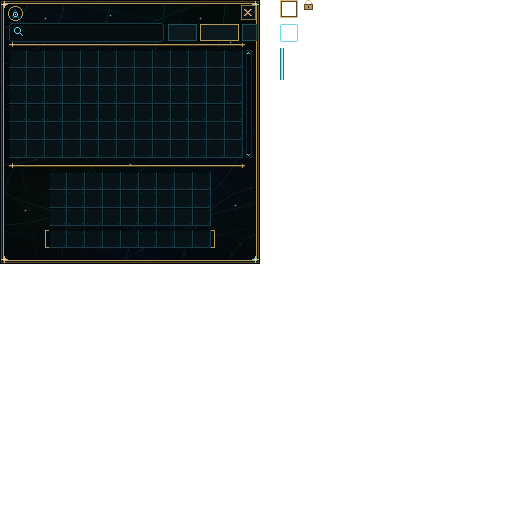
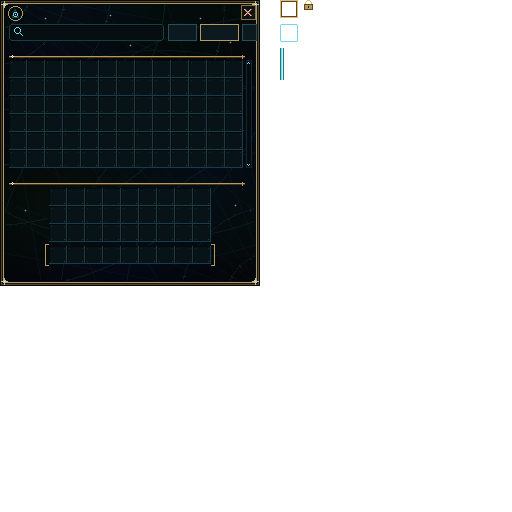
fix(gui): overhaul layout dimensions to 260x286, eliminate line and text overlaps, align slot hitboxes and item decorations

Changed region(s): [[0.0312, 0.2188, 0.5, 0.4062], [0.0, 0.0312, 0.5, 0.1875], [0.0, 0.4688, 0.5312, 0.5625]]

diff --git a/tools/generate_klein_assets.py b/tools/generate_klein_assets.py
@@ -7,7 +7,7 @@ ROOT = Path(__file__).resolve().parents[1]
 
 def generate_klein_terminal_gui(output_path: Path):
     W, H = 512, 512
-    PW, PH = 260, 264
+    PW, PH = 260, 286
     im = Image.new("RGBA", (W, H), (0, 0, 0, 0))
     draw = ImageDraw.Draw(im)
 
@@ -15,7 +15,7 @@ def generate_klein_terminal_gui(output_path: Path):
     for y in range(PH):
         for x in range(PW):
             dx = (x - 130) / 130.0
-            dy = (y - 120) / 130.0
+            dy = (y - 140) / 140.0
             d = math.sqrt(dx * dx + dy * dy)
             r = int(6 + 2 * math.sin(x * 0.03) - d * 2)
             g = int(12 + 4 * math.cos(y * 0.03) - d * 3)
@@ -60,15 +60,13 @@ def generate_klein_terminal_gui(output_path: Path):
         rad = math.radians(deg)
         cdraw.line((PW + 15, PH + 15, int(PW + 15 + 350 * math.cos(rad)), int(PH + 15 + 350 * math.sin(rad))), fill=(28, 70, 80, 25), width=1)
 
-    # Inclined Celestial Equator Ellipses
-    cdraw.ellipse((-40, 60, 320, 220), outline=(45, 105, 115, 38), width=1)
-    cdraw.ellipse((-20, 40, 340, 240), outline=(35, 85, 95, 32), width=1)
+    cdraw.ellipse((-40, 70, 320, 240), outline=(45, 105, 115, 38), width=1)
+    cdraw.ellipse((-20, 50, 340, 260), outline=(35, 85, 95, 32), width=1)
 
-    # Subtle Constellation Stars
     stars = [
         (45, 18), (110, 15), (200, 18), (230, 42), (18, 110), (242, 130),
         (25, 210), (235, 205), (15, 155), (130, 45), (130, 164),
-        (75, 82), (185, 88), (62, 218), (198, 218)
+        (75, 82), (185, 88), (62, 238), (198, 238)
     ]
     for sx, sy in stars:
         cdraw.point((sx, sy), fill=(160, 230, 240, 180))
@@ -107,7 +105,6 @@ def generate_klein_terminal_gui(output_path: Path):
     draw_corner_star(PW - 5, PH - 5)
 
     # 4. Header Bar: Astrolabe Emblem & Close Button
-    # Emblem at (8, 6)
     gold = (184, 155, 92, 255)
     cyan = (112, 219, 230, 255)
     bright = (200, 255, 250, 255)
@@ -124,37 +121,34 @@ def generate_klein_terminal_gui(output_path: Path):
         im.putpixel((244 + d, 9 + d), (222, 185, 122, 180))
         im.putpixel((244 + d, 15 - d), (222, 185, 122, 180))
 
-    # 5. Search Bar & Sort Control Button Frames
-    # Search Pill Box: (9, 23, 163, 41)
-    draw.rounded_rectangle((9, 23, 163, 41), radius=3, fill=(6, 14, 18, 255), outline=(24, 62, 70, 255))
-    draw.line((11, 24, 161, 24), fill=(3, 7, 9, 255))
+    # 5. Search Bar & Sort Control Button Frames (y = 24..40)
+    # Search Pill Box: (9, 24, 163, 40)
+    draw.rounded_rectangle((9, 24, 163, 40), radius=3, fill=(6, 14, 18, 255), outline=(24, 62, 70, 255))
+    draw.line((11, 25, 161, 25), fill=(3, 7, 9, 255))
     # Magnifying Glass at (14, 27)
     draw.ellipse((14, 27, 20, 33), outline=(112, 219, 230, 255), width=1)
     draw.line((19, 32, 22, 35), fill=(112, 219, 230, 255), width=1)
 
-    # Sort Button Frames
+    # Sort Button Frames (168..196, 200..238, 242..256)
     draw.rectangle((168, 24, 196, 40), fill=(12, 26, 32, 255), outline=(36, 80, 90, 255))
     draw.rectangle((200, 24, 238, 40), fill=(12, 26, 32, 255), outline=(184, 155, 92, 255))
     draw.rectangle((242, 24, 256, 40), fill=(12, 26, 32, 255), outline=(36, 80, 90, 255))
 
-    # 6. Filigree Section Dividers
-    def draw_divider(y_pos, x_start=9, x_end=244):
+    # 6. Filigree Section Dividers (y=56 for warehouse, y=183 for inventory)
+    def draw_divider_line(y_pos, x_start=9, x_end=244):
         gold = (184, 155, 92, 255)
         gold_shadow = (70, 55, 28, 255)
         bright = (255, 245, 200, 255)
         draw.line((x_start, y_pos, x_end, y_pos), fill=gold)
         draw.line((x_start, y_pos + 1, x_end, y_pos + 1), fill=gold_shadow)
-        sx = x_start + 3
-        im.putpixel((sx, y_pos), bright)
-        for d in range(1, 3):
-            im.putpixel((sx + d, y_pos), gold)
-            im.putpixel((sx - d, y_pos), gold)
-            im.putpixel((sx, y_pos + d), gold)
-            im.putpixel((sx, y_pos - d), gold)
+        im.putpixel((x_start + 2, y_pos), bright)
+        im.putpixel((x_start + 3, y_pos - 1), bright)
+        im.putpixel((x_start + 3, y_pos + 1), bright)
+        im.putpixel((x_start + 4, y_pos), bright)
         draw.line((x_end - 2, y_pos - 1, x_end - 2, y_pos + 2), fill=gold)
 
-    draw_divider(44, 9, 244)
-    draw_divider(165, 9, 244)
+    draw_divider_line(56, 9, 244)
+    draw_divider_line(183, 9, 244)
 
     # 7. Slot Wells (18x18 Beveled Wells)
     def draw_slot(sx, sy):
@@ -168,36 +162,36 @@ def generate_klein_terminal_gui(output_path: Path):
         im.putpixel((sx + 2, sy + 15), (18, 45, 52, 255))
         im.putpixel((sx + 15, sy + 15), (25, 65, 75, 255))
 
-    # Warehouse: 13 cols x 6 rows = 78 slots at (9, 50)
+    # Warehouse: 13 cols x 6 rows = 78 slots at y=60..168
     for row in range(6):
         for col in range(13):
-            draw_slot(9 + col * 18, 50 + row * 18)
+            draw_slot(9 + col * 18, 60 + row * 18)
 
-    # Scrollbar Track at (246, 50, w=6, h=108)
-    draw.rectangle((246, 50, 251, 157), fill=(5, 12, 16, 255), outline=(16, 40, 48, 255))
-    im.putpixel((248, 52), (112, 219, 230, 255))
-    im.putpixel((247, 53), (112, 219, 230, 255))
-    im.putpixel((249, 53), (112, 219, 230, 255))
-    im.putpixel((248, 155), (112, 219, 230, 255))
-    im.putpixel((247, 154), (112, 219, 230, 255))
-    im.putpixel((249, 154), (112, 219, 230, 255))
+    # Scrollbar Track at (246, 60, w=6, h=108)
+    draw.rectangle((246, 60, 251, 167), fill=(5, 12, 16, 255), outline=(16, 40, 48, 255))
+    im.putpixel((248, 62), (112, 219, 230, 255))
+    im.putpixel((247, 63), (112, 219, 230, 255))
+    im.putpixel((249, 63), (112, 219, 230, 255))
+    im.putpixel((248, 165), (112, 219, 230, 255))
+    im.putpixel((247, 164), (112, 219, 230, 255))
+    im.putpixel((249, 164), (112, 219, 230, 255))
 
-    # Player Main Inventory: 9 cols x 3 rows at (49, 172)
+    # Player Main Inventory: 9 cols x 3 rows at y=188..242
     for row in range(3):
         for col in range(9):
-            draw_slot(49 + col * 18, 172 + row * 18)
+            draw_slot(49 + col * 18, 188 + row * 18)
 
-    # Player Hotbar: 9 cols at (49, 230)
+    # Player Hotbar: 9 cols at y=246..264
     for col in range(9):
-        draw_slot(49 + col * 18, 230)
+        draw_slot(49 + col * 18, 246)
 
     # Hotbar Side Brackets
-    draw.line((45, 230, 45, 247), fill=(184, 155, 92, 255), width=1)
-    draw.line((45, 230, 48, 230), fill=(184, 155, 92, 255), width=1)
-    draw.line((45, 247, 48, 247), fill=(184, 155, 92, 255), width=1)
-    draw.line((214, 230, 214, 247), fill=(184, 155, 92, 255), width=1)
-    draw.line((211, 230, 214, 230), fill=(184, 155, 92, 255), width=1)
-    draw.line((211, 247, 214, 247), fill=(184, 155, 92, 255), width=1)
+    draw.line((45, 244, 45, 265), fill=(184, 155, 92, 255), width=1)
+    draw.line((45, 244, 48, 244), fill=(184, 155, 92, 255), width=1)
+    draw.line((45, 265, 48, 265), fill=(184, 155, 92, 255), width=1)
+    draw.line((214, 244, 214, 265), fill=(184, 155, 92, 255), width=1)
+    draw.line((211, 244, 214, 244), fill=(184, 155, 92, 255), width=1)
+    draw.line((211, 265, 214, 265), fill=(184, 155, 92, 255), width=1)
 
     # 8. Side Texture Atlas Elements (x >= 280)
     # Locked slot overlay (280, 0, 18x18)
@@ -254,7 +248,6 @@ def generate_klein_bottle_icon(output_path: Path):
         oy = (32 - nh) // 2
         final_32.paste(sprite, (ox, oy), sprite)
 
-        # Crisp pixel art thresholding
         out = Image.new("RGBA", (32, 32), (0, 0, 0, 0))
         for y in range(32):
             for x in range(32):
@@ -266,87 +259,8 @@ def generate_klein_bottle_icon(output_path: Path):
 
         output_path.parent.mkdir(parents=True, exist_ok=True)
         out.save(output_path)
-        print(f"Saved Klein Bottle item icon (from prototype) to {output_path}")
+        print(f"Saved Klein Bottle item icon to {output_path}")
         return
-
-    # Fallback procedural drawer if prototype is missing
-    W, H = 32, 32
-    im = Image.new("RGBA", (W, H), (0, 0, 0, 0))
-    draw = ImageDraw.Draw(im)
-
-    cork = (168, 122, 68, 255)
-    cork_dark = (105, 72, 38, 255)
-    cork_light = (212, 165, 100, 255)
-
-    gold = (205, 168, 88, 255)
-    gold_dark = (118, 92, 42, 255)
-    gold_hi = (255, 238, 168, 255)
-
-    rim_dark = (22, 35, 42, 255)
-    rim_mid = (45, 75, 88, 255)
-    rim_hi = (165, 235, 245, 255)
-
-    glass_void = (12, 20, 26, 245)
-    glass_mid = (18, 38, 48, 240)
-    glass_shine = (210, 250, 255, 250)
-
-    cyan_glow = (98, 217, 209, 255)
-    cyan_bright = (195, 255, 255, 255)
-
-    draw.polygon([(14, 1), (18, 1), (18, 5), (13, 5)], fill=cork)
-    draw.line((14, 1, 18, 1), fill=cork_light)
-    draw.line((18, 2, 18, 5), fill=cork_dark)
-
-    draw.rectangle((12, 5, 19, 7), fill=gold)
-    draw.line((12, 5, 19, 5), fill=gold_hi)
-    draw.line((12, 7, 19, 7), fill=gold_dark)
-
-    for y in range(8, 13):
-        x_left = 13 + (1 if y > 10 else 0)
-        x_right = 18 + (1 if y > 10 else 0)
-        for x in range(x_left, x_right + 1):
-            im.putpixel((x, y), glass_void)
-        im.putpixel((x_left, y), rim_mid)
-        im.putpixel((x_right, y), rim_dark)
-
-    cx, cy, r = 16, 21, 9.0
-    for y in range(12, 31):
-        for x in range(7, 26):
-            dx = x - cx
-            dy = y - cy
-            d = math.sqrt(dx * dx + dy * dy)
-            if d <= r - 1.2:
-                im.putpixel((x, y), glass_void)
-            elif d <= r:
-                im.putpixel((x, y), glass_mid)
-            elif d <= r + 0.6:
-                im.putpixel((x, y), rim_dark)
-
-    draw.arc((7, 12, 25, 30), 120, 240, fill=rim_hi, width=1)
-    im.putpixel((11, 14), glass_shine)
-    im.putpixel((12, 14), glass_shine)
-    im.putpixel((10, 16), glass_shine)
-    im.putpixel((9, 18), glass_shine)
-
-    draw.line([(19, 10), (17, 14), (16, 17)], fill=cyan_glow, width=1)
-    loop_pts = []
-    for deg in range(0, 360, 15):
-        rad = math.radians(deg)
-        lx = 16 + 5.0 * math.cos(rad)
-        ly = 21 + 5.5 * math.sin(rad) * (1 - 0.3 * math.cos(rad))
-        loop_pts.append((round(lx), round(ly)))
-    for i in range(len(loop_pts)):
-        p1 = loop_pts[i]
-        p2 = loop_pts[(i + 1) % len(loop_pts)]
-        draw.line([p1, p2], fill=cyan_glow, width=1)
-        im.putpixel(p1, cyan_bright)
-
-    im.putpixel((16, 17), (255, 255, 255, 255))
-    im.putpixel((17, 17), cyan_bright)
-
-    output_path.parent.mkdir(parents=True, exist_ok=True)
-    im.save(output_path)
-    print(f"Saved Klein Bottle item icon (procedural) to {output_path}")
 
 
 def main():

diff --git a/src/main/java/org/gwfx/universaltool/client/KleinScreen.java b/src/main/java/org/gwfx/universaltool/client/KleinScreen.java
@@ -25,12 +25,12 @@ public final class KleinScreen extends AbstractContainerScreen<KleinMenu> {
     public KleinScreen(KleinMenu menu, Inventory inventory, Component title) {
         super(menu, inventory, title);
         imageWidth = 260;
-        imageHeight = 264;
+        imageHeight = 286;
     }
 
     @Override protected void init() {
         super.init();
-        search = new EditBox(font, leftPos + 23, topPos + 26, 138, 14, Component.empty());
+        search = new EditBox(font, leftPos + 26, topPos + 26, 134, 12, Component.empty());
         search.setMaxLength(64);
         search.setBordered(false);
         search.setTextColor(TEXT);
@@ -42,32 +42,25 @@ public final class KleinScreen extends AbstractContainerScreen<KleinMenu> {
     @Override protected void renderBg(GuiGraphics g, float partialTick, int mouseX, int mouseY) {
         int x = leftPos, y = topPos;
 
-        // Render the full authentic GUI texture sheet:
+        // 1. Render base GUI texture
         g.blit(GUI_TEXTURE, x, y, 0, 0, imageWidth, imageHeight, 512, 512);
 
-        // Dynamic Header Title & Badge
-        g.drawString(font, Component.translatable("item.universal_tool.klein_bottle"), x + 28, y + 10, TEXT, false);
-        g.drawString(font, Component.literal("| ").append(Component.translatable("gui.universal_tool.klein.private")), x + 76, y + 10, 0xFF7D9DA8, false);
+        // 2. Header Title & Badge
+        g.drawString(font, Component.translatable("item.universal_tool.klein_bottle"), x + 28, y + 9, TEXT, false);
+        g.drawString(font, Component.literal("| ").append(Component.translatable("gui.universal_tool.klein.private")), x + 76, y + 9, 0xFF7D9DA8, false);
 
-        // Dynamic Section Headers
-        g.drawString(font, Component.literal("✧ ").append(Component.translatable("gui.universal_tool.klein.infinite")).append(" ✧"), x + 12, y + 36, BRASS, false);
-        g.drawString(font, Component.literal("✧ ").append(Component.translatable("gui.universal_tool.klein.inventory")).append(" ✧"), x + 12, y + 160, BRASS, false);
-
-        // Dynamic Footer Hint
-        String hint = Component.translatable("gui.universal_tool.klein.hint").getString();
-        g.drawString(font, hint, x + imageWidth - font.width(hint) - 14, y + 252, 0xFF6A868E, false);
-
-        // Dynamic close button hover:
+        // 3. Close button hover effect
         boolean closeHover = mouseX >= x + 241 && mouseX < x + 255 && mouseY >= y + 5 && mouseY < y + 19;
         if (closeHover) {
             g.fill(x + 242, y + 6, x + 254, y + 18, 0x60FF4040);
         }
 
-        // Dynamic Subheader item types counter:
+        // 4. Upper Section Divider Text: "✧ 无限仓储 ✧" and "物品类型: %s / ∞"
+        g.drawString(font, Component.literal("✧ ").append(Component.translatable("gui.universal_tool.klein.infinite")).append(" ✧"), x + 10, y + 45, BRASS, false);
         String typesStr = Component.translatable("gui.universal_tool.klein.types", menu.filtered().size()).getString();
-        g.drawString(font, typesStr, x + imageWidth - font.width(typesStr) - 18, y + 38, BRASS, false);
+        g.drawString(font, typesStr, x + imageWidth - font.width(typesStr) - 16, y + 45, BRASS, false);
 
-        // Dynamic Sort button labels & active highlights:
+        // 5. Sort button labels & active border highlights
         boolean nameActive = !menu.quantitySort();
         boolean qtyActive = menu.quantitySort();
         int nameColor = nameActive ? CYAN : TEXT;
@@ -83,7 +76,10 @@ public final class KleinScreen extends AbstractContainerScreen<KleinMenu> {
             border(g, x + 200, y + 24, 38, 16, CYAN);
         }
 
-        // Virtual Grid: 13 columns x 6 rows = 78 slots
+        // 6. Lower Section Divider Text: "✧ 背包 ✧"
+        g.drawString(font, Component.literal("✧ ").append(Component.translatable("gui.universal_tool.klein.inventory")).append(" ✧"), x + 10, y + 172, BRASS, false);
+
+        // 7. Virtual Warehouse Grid: 13 columns x 6 rows = 78 slots at y=60..168
         hovered = null;
         int start = menu.scroll() * 13;
         for (int cell = 0; cell < 78; cell++) {
@@ -94,18 +90,15 @@ public final class KleinScreen extends AbstractContainerScreen<KleinMenu> {
             if (index >= menu.filtered().size()) continue;
             KleinEntryData entry = menu.filtered().get(index);
             g.renderItem(entry.template(), sx + 1, sy + 1);
-            String count = compact(entry.amount());
-            int width = font.width(count);
-            g.fill(sx + 18 - width - 1, sy + 9, sx + 18, sy + 18, 0xD00B151A);
-            g.drawString(font, count, sx + 18 - width, sy + 9, 0xFFFFFFFF, false);
+            g.renderItemDecorations(font, entry.template(), sx + 1, sy + 1, compact(entry.amount()));
             if (isHovered) {
                 hovered = entry;
-                // Draw cyan glowing hover outline from texture sheet:
+                // Cyan glowing hover outline from texture sheet:
                 g.blit(GUI_TEXTURE, sx, sy, 280, 24, 18, 18, 512, 512);
             }
         }
 
-        // Dynamic Scrollbar Thumb
+        // 8. Dynamic Scrollbar Thumb
         int trackY = y + KleinMenu.GRID_Y;
         int totalRows = Math.max(1, (menu.filtered().size() + 12) / 13);
         int maxScroll = Math.max(1, totalRows - 6);
@@ -113,16 +106,20 @@ public final class KleinScreen extends AbstractContainerScreen<KleinMenu> {
         int thumbY = trackY + (108 - thumbHeight) * menu.scroll() / maxScroll;
         g.blit(GUI_TEXTURE, x + 246, thumbY, 280, 48, 4, thumbHeight, 512, 512);
 
-        // Locked bottle slot highlight & padlock badge
+        // 9. Locked bottle slot highlight & padlock badge
         for (int i = 0; i < menu.slots.size(); i++) {
             var slot = menu.slots.get(i);
             boolean isLocked = slot.container == menu.getSlot(0).container && slot.getContainerSlot() == menu.lockedInventorySlot();
             if (isLocked) {
                 int sx = x + slot.x - 1, sy = y + slot.y - 1;
                 g.blit(GUI_TEXTURE, sx, sy, 280, 0, 18, 18, 512, 512);
-                g.blit(GUI_TEXTURE, sx + 9, sy + 9, 304, 0, 9, 9, 512, 512);
+                g.blit(GUI_TEXTURE, sx + 9, sy + 9, 304, 0, 9, 10, 512, 512);
             }
         }
+
+        // 10. Footer Hint Text
+        String hint = Component.translatable("gui.universal_tool.klein.hint").getString();
+        g.drawString(font, hint, x + (imageWidth - font.width(hint)) / 2, y + 271, 0xFF6A868E, false);
     }
 
     @Override public void render(GuiGraphics g, int mouseX, int mouseY, float partialTick) {
@@ -219,7 +216,7 @@ public final class KleinScreen extends AbstractContainerScreen<KleinMenu> {
     private static void border(GuiGraphics g, int x, int y, int w, int h, int color) {
         g.fill(x, y, x + w, y + 1, color);
         g.fill(x, y + h - 1, x + w, y + h, color);
-        g.fill(x, y, x + 1, y + h, color);
+        g.fill(x, y + 1, x + 1, y + h, color);
         g.fill(x + w - 1, y, x + w, y + h, color);
     }
 }

diff --git a/src/main/java/org/gwfx/universaltool/klein/KleinMenu.java b/src/main/java/org/gwfx/universaltool/klein/KleinMenu.java
@@ -20,7 +20,7 @@ import net.neoforged.neoforge.network.PacketDistributor;
 import org.gwfx.universaltool.init.ModMenuTypes;
 
 public final class KleinMenu extends AbstractContainerMenu {
-    public static final int GRID_X = 9, GRID_Y = 50, PLAYER_X = 49, PLAYER_Y = 172, HOTBAR_Y = 230;
+    public static final int GRID_X = 9, GRID_Y = 60, PLAYER_X = 50, PLAYER_Y = 189, HOTBAR_Y = 247;
     private final Inventory inventory;
     private final InteractionHand hand;
     private final int lockedInventorySlot;
